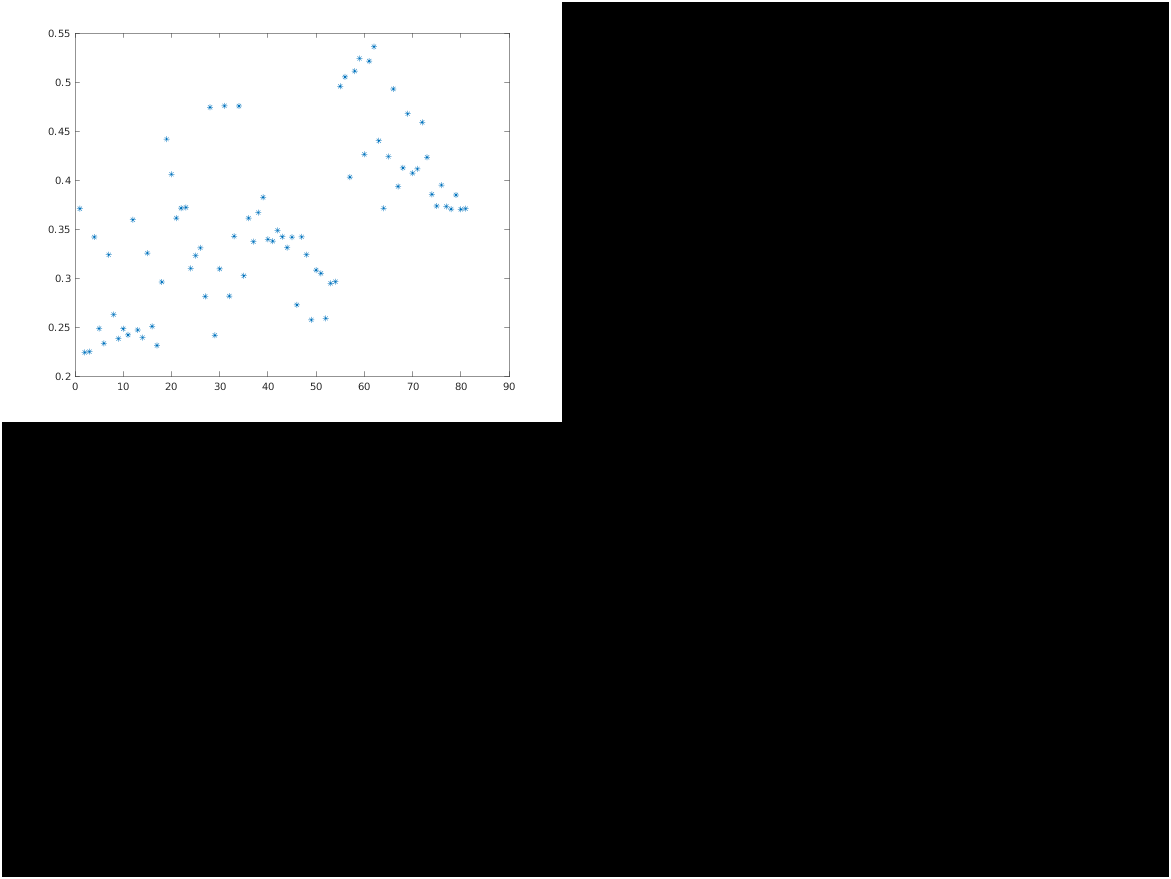
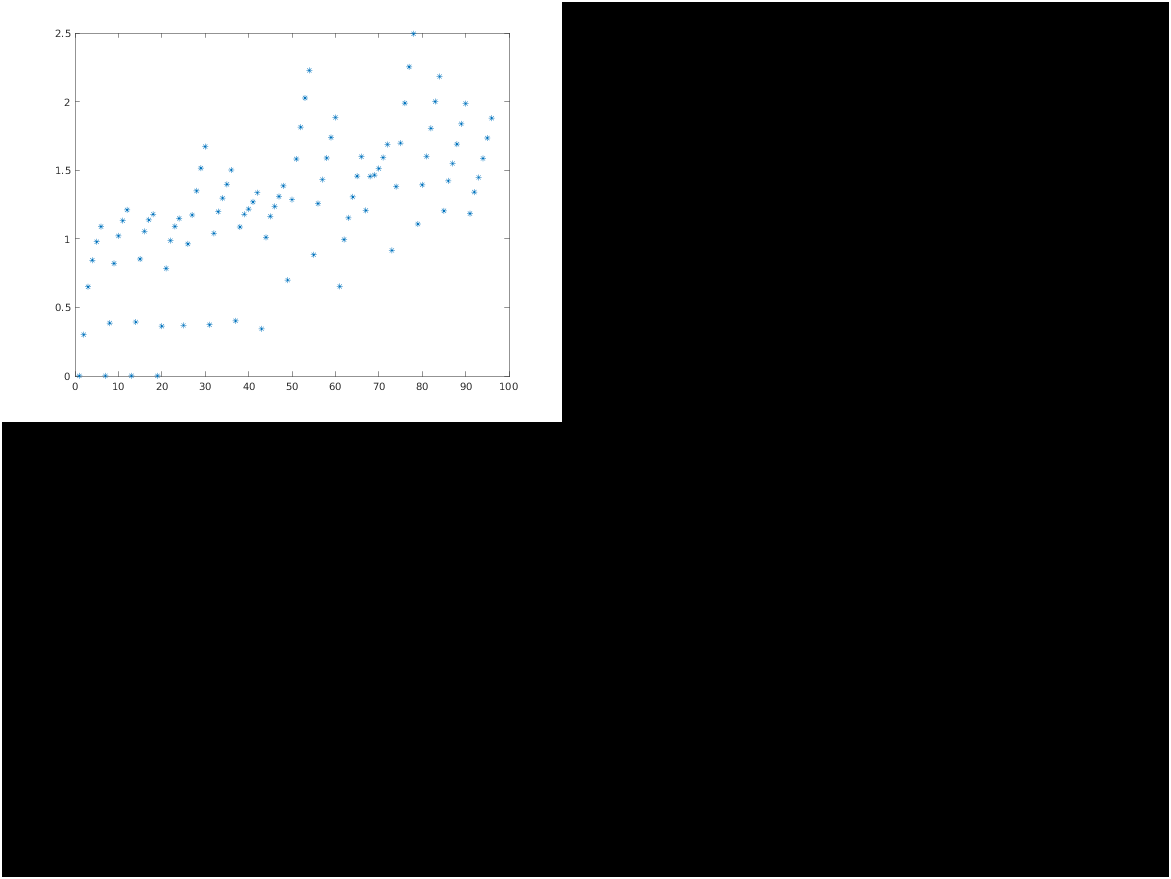
new data

diff --git a/SE_Stokes_run/SE3P_Stokes/amp_param.m b/SE_Stokes_run/SE3P_Stokes/amp_param.m
@@ -1,14 +1,14 @@
 %% Amplitute
-
-A = @(F,xi,L) (F*xi^2/L).^(1/2); %Hypothesis
+rng(1);
+A = @(F,xi,L) (F*xi/(L)).^(1/2); %Hypothesis
 
 M0 = 128;
 opt.M = [M0,M0,M0];
 opt.P = 96;
 opt.window = 'gaussian';
-NN = [25,50,100];
-LL = [1,2,3];
-xx = [4,6,8];
+NN = [25,50,75,100];
+LL = [0.5,1,1.5,2];
+xx = [2,4,6,8,10,12];
 MA = [];
 fileid = fopen('outdata.txt','w');
 fprintf(fileid,'%2s %3s %4s %9s %11s %5s \n','N','L','xi', 'rms','A','rms/a');
@@ -21,12 +21,12 @@ for L = LL
             opt.xi = xi;
             eu = rms(SE3P_Stokes(1:N, x, f, opt));
             a = A(F,xi,L);
-            fprintf(fileid,'%3i %2.2f %1i %6.4f %6.4f %6.4f %6.4f %6.4f \n',N,L,xi,eu,norm(a),eu(2)/norm(a));
-            MA = [MA eu/norm(a)];
+            fprintf(fileid,'%3i %2.2f %1i %6.4f %6.4f %6.4f %6.4f %6.4f \n',N,L,xi,eu,norm(a),eu/a);
+            MA = [MA eu/a];
         end
     end
 end
 plot(1:length(MA),MA,'*')
 exportgraphics(gcf,'error_amp.png');
 fclose(fileid);
-disp(MA)
+%disp(MA)
